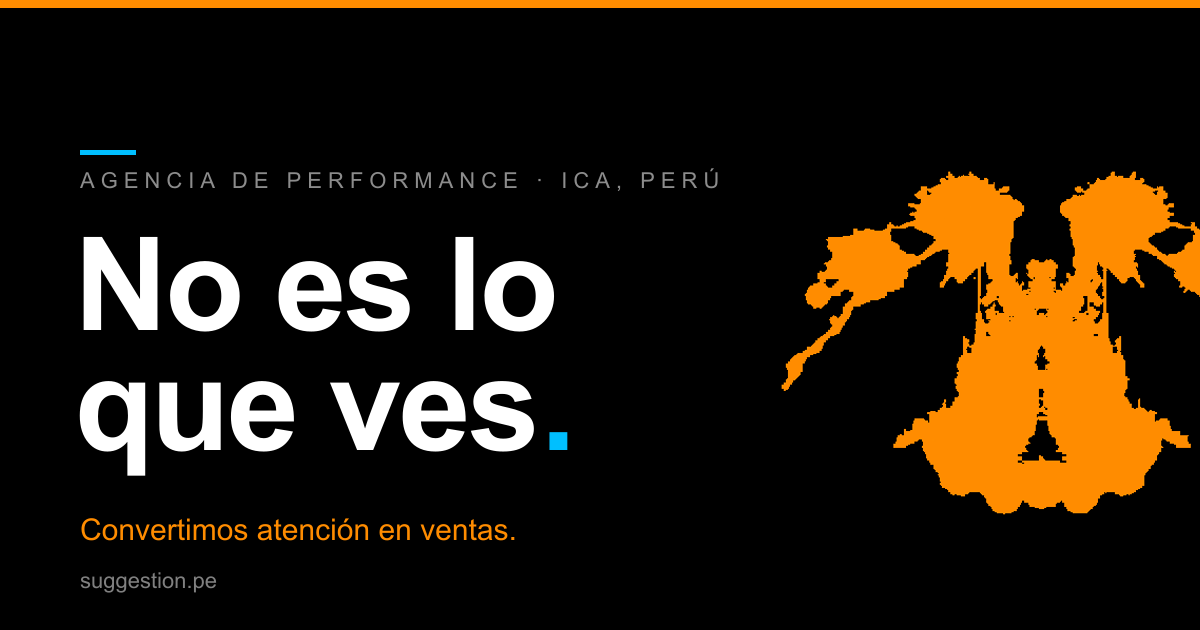
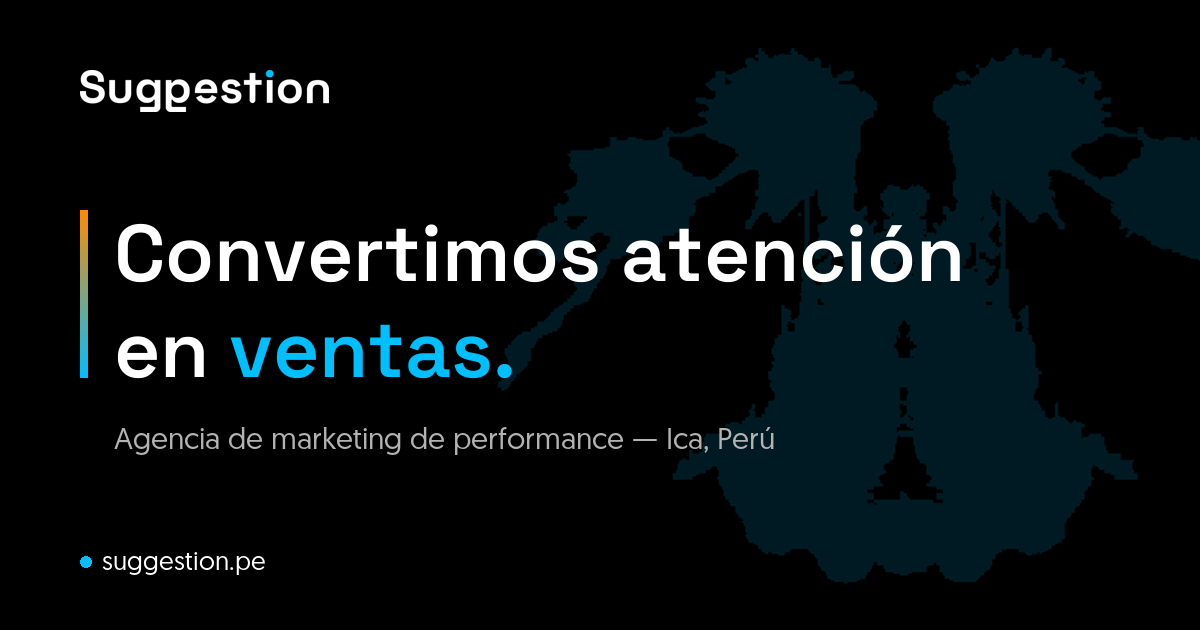
feat(img): OG premium + imagen de hero en sectores inmobiliario/automotriz (P2+P4)
- og-image.png rediseñado (marca, barra naranja->cian, 'ventas' en cian, blot tenue, suggestion.pe) para previews de WhatsApp/redes.
- LandingArticle: prop opcional heroImage (cuando hay foto, reemplaza la tarjeta 'Lo que logras'). SectorPage mapea inmobiliario->render Ceinys y automotriz->campana Pacifico (WebP).

diff --git a/src/components/LandingArticle.tsx b/src/components/LandingArticle.tsx
@@ -28,6 +28,7 @@ export default function LandingArticle({
   kicker,
   h1,
   hero,
+  heroImage,
   ctaLabel,
   proof,
   secciones,
@@ -44,6 +45,7 @@ export default function LandingArticle({
   kicker: string;
   h1: string;
   hero: string;
+  heroImage?: { src: string; alt: string };
   ctaLabel: string;
   proof?: string;
   secciones: Seccion[];
@@ -131,7 +133,12 @@ export default function LandingArticle({
                 </Btn>
               </div>
             </div>
-            {heroItems.length > 0 && (
+            {heroImage ? (
+              <aside style={{ minWidth: 0 }}>
+                {/* eslint-disable-next-line @next/next/no-img-element */}
+                <img src={heroImage.src} alt={heroImage.alt} loading="lazy" style={{ width: "100%", height: "auto", borderRadius: "var(--radius-md)", border: "1px solid var(--border-subtle)", display: "block", boxShadow: "var(--shadow-md)" }} />
+              </aside>
+            ) : heroItems.length > 0 ? (
               <aside style={{ minWidth: 0 }}>
                 <div style={{ background: "var(--surface-raised)", border: "1px solid var(--border-subtle)", borderRadius: "var(--radius-md)", padding: "clamp(1.25rem,3vw,1.75rem)" }}>
                   <span style={{ font: "var(--fw-bold) var(--fs-micro)/1 var(--font-accent)", textTransform: "uppercase", letterSpacing: "var(--tracking-label)", color: "var(--text-muted)" }}>
@@ -147,7 +154,7 @@ export default function LandingArticle({
                   </ul>
                 </div>
               </aside>
-            )}
+            ) : null}
           </div>
         </div>
       </section>

diff --git a/src/components/SectorPage.tsx b/src/components/SectorPage.tsx
@@ -5,6 +5,12 @@ import { serviceSchema } from "@/lib/schema";
 import { getSector, getSectorAst } from "@/content/sectores";
 import { getServicio } from "@/content/servicios";
 
+/** Imagen de hero por sector (cuando existe foto/render real). */
+const SECTOR_IMG: Record<string, { src: string; alt: string }> = {
+  "marketing-inmobiliario": { src: "/assets/sectores/inmobiliario.webp", alt: "Render del proyecto inmobiliario de Inmobiliaria Ceinys" },
+  "marketing-automotriz": { src: "/assets/sectores/automotriz.webp", alt: "Campaña de marketing para el concesionario Pacífico Motors" },
+};
+
 /** Renderiza una landing de sector (a raíz) desde su slug. */
 export default function SectorPage({ slug }: { slug: string }) {
   const sec = getSector(slug);
@@ -31,6 +37,7 @@ export default function SectorPage({ slug }: { slug: string }) {
       kicker="Sector"
       h1={sec.h1}
       hero={sec.hero}
+      heroImage={SECTOR_IMG[slug]}
       ctaLabel={sec.cta}
       proof={sec.proof}
       secciones={sec.secciones}